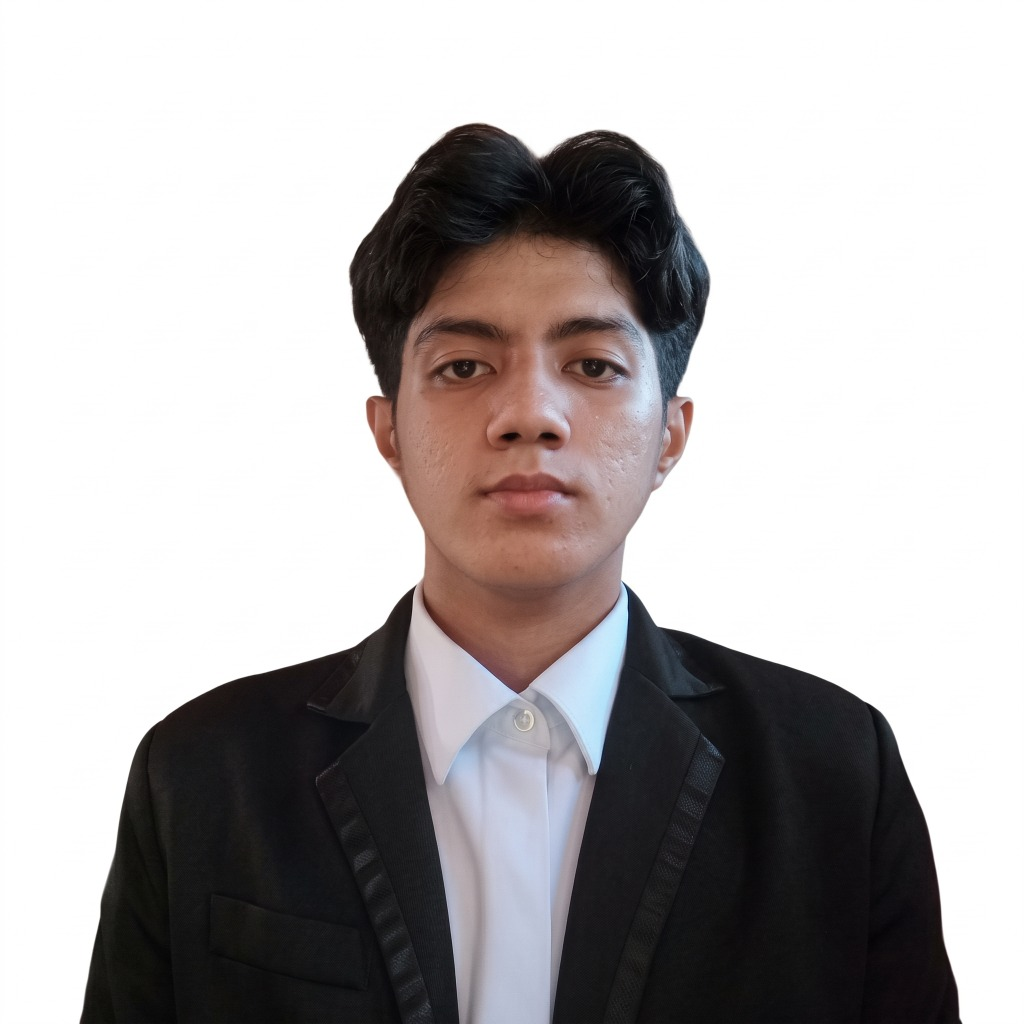
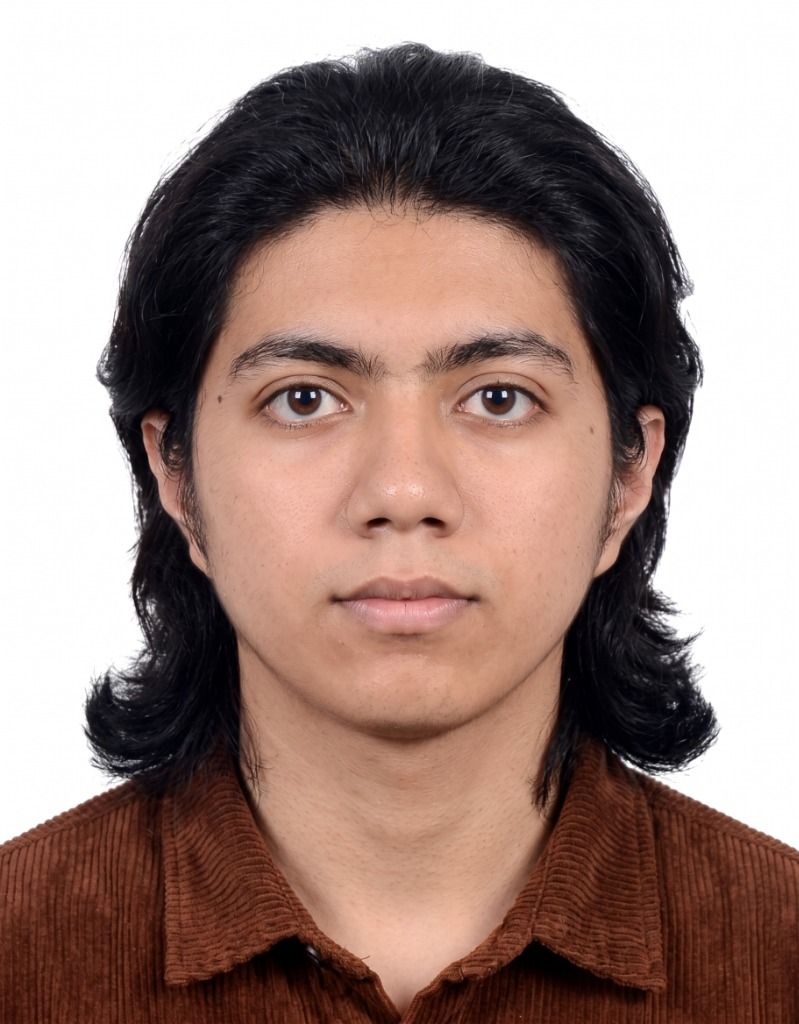
feat(team): update Yan Mark Darunday headshot photo and cache version

diff --git a/about.html b/about.html
@@ -347,7 +347,7 @@
 
                       <!-- Slide 6: Yan Mark V. Darunday -->
                       <article class="cf-card group" data-cf-card data-name="Yan Mark V. Darunday" data-role="Software Engineer" aria-roledescription="slide" aria-label="6 of 7: Yan Mark V. Darunday">
-                        <img class="w-full h-full object-cover rounded-2xl select-none" alt="Yan Mark V. Darunday - Software Engineer" src="assets/images/team/team-yanmark.jpg" draggable="false">
+                        <img class="w-full h-full object-cover rounded-2xl select-none" alt="Yan Mark V. Darunday - Software Engineer" src="assets/images/team/team-yanmark.jpg?v=2" draggable="false">
                         <div class="flex gap-3 backdrop-blur-md bg-white/85 rounded-full justify-center py-2.5 px-5 absolute left-4 right-4 bottom-4 opacity-0 translate-y-3 group-hover:opacity-100 group-hover:translate-y-0 transition-all duration-300 ease-out z-20" data-cf-socials>
                           <a href="https://github.com" target="_blank" rel="noopener noreferrer" class="text-black hover:text-gray-600 transition" aria-label="GitHub Profile"><svg class="w-4 h-4" fill="currentColor" viewBox="0 0 24 24"><path d="M12 0c-6.626 0-12 5.373-12 12 0 5.302 3.438 9.8 8.207 11.387.599.111.793-.261.793-.577v-2.234c-3.338.726-4.033-1.416-4.033-1.416-.546-1.387-1.333-1.756-1.333-1.756-1.089-.745.083-.729.083-.729 1.205.084 1.839 1.237 1.839 1.237 1.07 1.834 2.807 1.304 3.492.997.107-.775.418-1.305.762-1.604-2.665-.305-5.467-1.334-5.467-5.931 0-1.311.469-2.381 1.236-3.221-.124-.303-.535-1.524.117-3.176 0 0 1.008-.322 3.301 1.23.957-.266 1.983-.399 3.003-.404 1.02.005 2.047.138 3.006.404 2.291-1.552 3.297-1.23 3.297-1.23.653 1.653.242 2.874.118 3.176.77.84 1.235 1.911 1.235 3.221 0 4.609-2.807 5.624-5.479 5.921.43.372.823 1.102.823 2.222v 3.293c0 .319.192.694.801.576 4.765-1.589 8.199-6.086 8.199-11.386 0-6.627-5.373-12-12-12z"></path></svg></a>
                           <a href="https://www.facebook.com" target="_blank" rel="noopener noreferrer" class="text-black hover:text-gray-600 transition" aria-label="Facebook Profile"><svg class="w-4 h-4" fill="currentColor" viewBox="0 0 24 24"><path d="M24 12.073c0-6.627-5.373-12-12-12s-12 5.373-12 12c0 5.99 4.388 10.954 10.125 11.854v-8.385H7.078v-3.47h3.047V9.43c0-3.007 1.792-4.669 4.533-4.669 1.312 0 2.686.235 2.686.235v2.953H15.83c-1.491 0-1.956.925-1.956 1.874v2.25h3.328l-.532 3.47h-2.796v8.385C19.612 23.027 24 18.062 24 12.073z"></path></svg></a>

diff --git a/assets/js/main.js b/assets/js/main.js
@@ -26827,7 +26827,7 @@ const c9 = [
     id: 6,
     name: "Yan Mark V. Darunday",
     role: "Software Engineer",
-    image: "assets/images/team/team-yanmark.jpg",
+    image: "assets/images/team/team-yanmark.jpg?v=2",
     socials: {
       facebook: "https://www.facebook.com",
       github: "https://github.com",
